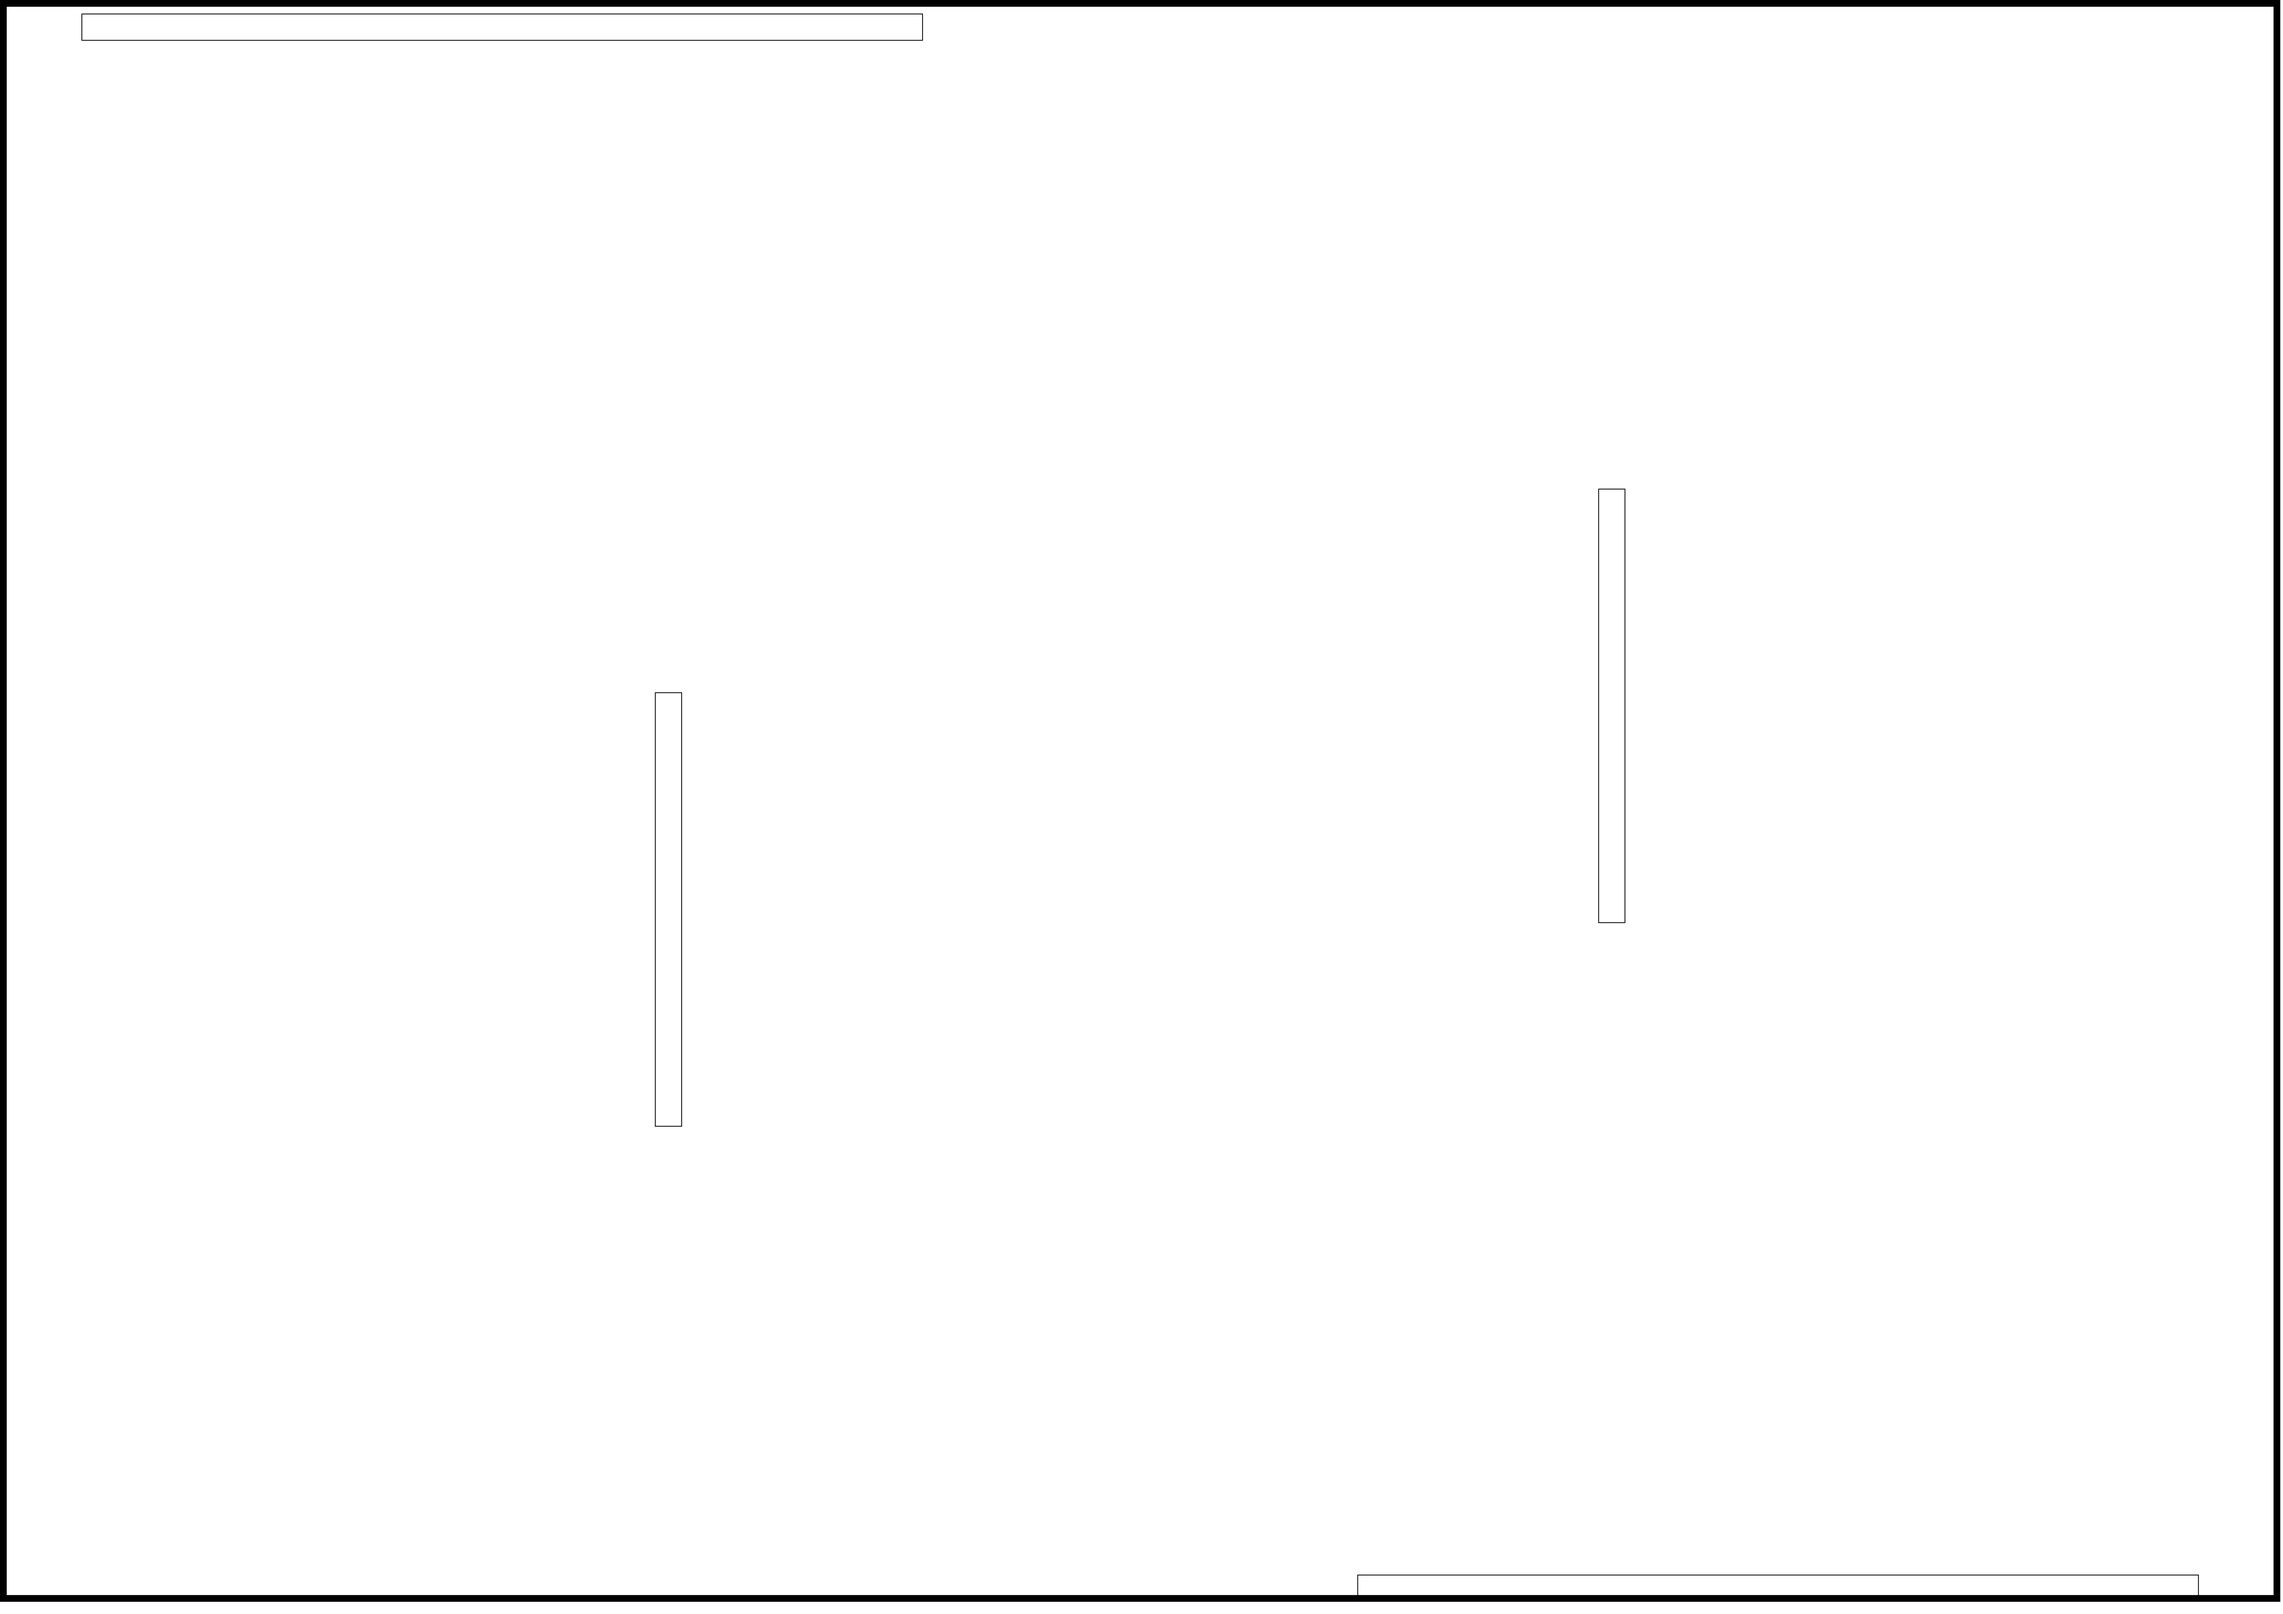
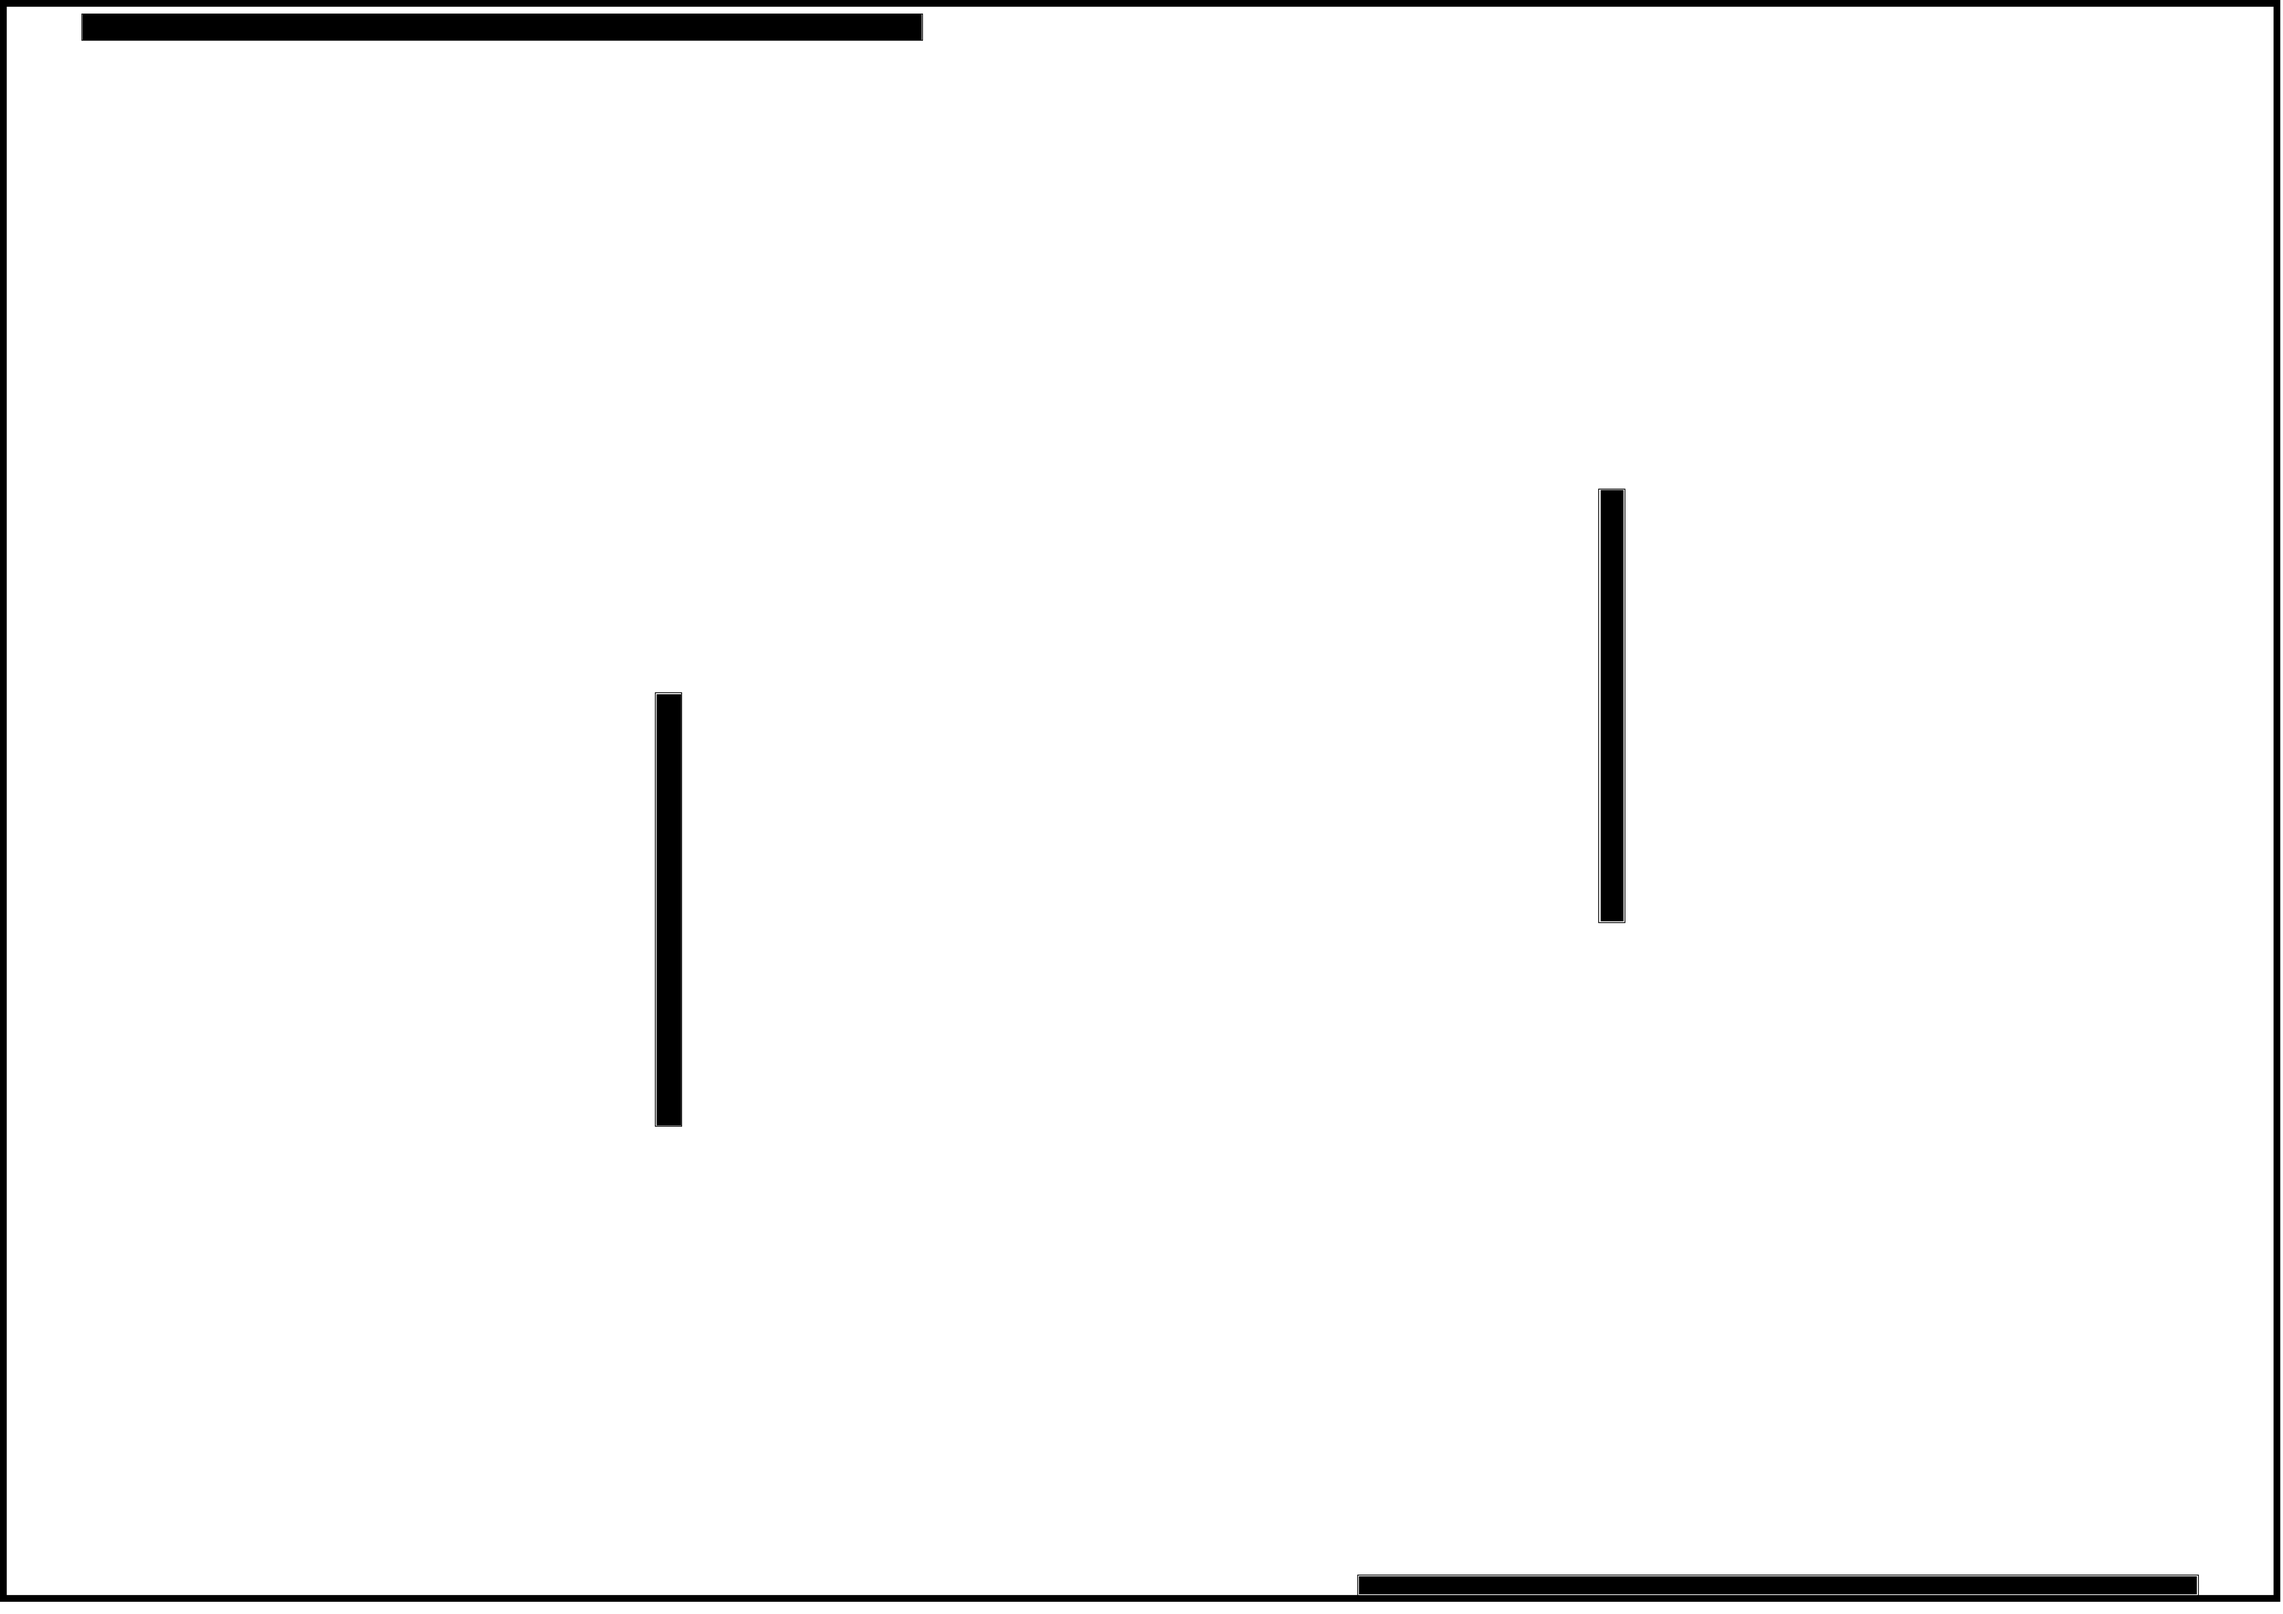
logging done. dist and grad maps not working still

diff --git a/src/Localization/PerfectMatch/Map/Map.cpp b/src/Localization/PerfectMatch/Map/Map.cpp
@@ -12,8 +12,8 @@ Map::Map(Logger &logger, const std::string &filename) : logger(logger) {
 
     // Initialize the distance map and gradient maps
     DistMap = std::vector<std::vector<int>>(ImgHeight, std::vector<int>(ImgWidth, 0));
-    GradXMap = std::vector<std::vector<float>>(ImgHeight, std::vector<float>(ImgWidth, 0));
-    GradYMap = std::vector<std::vector<float>>(ImgHeight, std::vector<float>(ImgWidth, 0));
+    GradXMap = std::vector<std::vector<double>>(ImgHeight, std::vector<double>(ImgWidth, 0));
+    GradYMap = std::vector<std::vector<double>>(ImgHeight, std::vector<double>(ImgWidth, 0));
 
     // Process the image data and populate the distance map
     logger.trace("Processing image data."); // Add log
@@ -27,14 +27,18 @@ Map::Map(Logger &logger, const std::string &filename) : logger(logger) {
     stbi_image_free(img);
 }
 
-
 void Map::saveDistMap(const std::string &filename) const {
     logger.info("Saving distance map to: " + filename);
     std::vector<unsigned char> imgData(ImgWidth * ImgHeight * 3, 0); // 3 for RGB channels
 
+    // find max value in DistMap for normalization
+    int maxDist = 0;
+    for (const auto& row : DistMap)
+        maxDist = std::max(maxDist, *std::max_element(row.begin(), row.end()));
+
     for (int y = 0; y < ImgHeight; ++y) {
         for (int x = 0; x < ImgWidth; ++x) {
-            int pixelValue = std::clamp(DistMap[y][x], 0, 255);
+            int pixelValue = std::round((static_cast<double>(DistMap[y][x]) / maxDist) * 255);
             // Assign to red, green, and blue channels
             imgData[(y * ImgWidth + x) * 3 + 0] = static_cast<unsigned char>(pixelValue); // Red
             imgData[(y * ImgWidth + x) * 3 + 1] = static_cast<unsigned char>(pixelValue); // Green
@@ -49,18 +53,28 @@ void Map::saveDistMap(const std::string &filename) const {
 
 void Map::saveGradMap(const std::string &filename, const double factor) const {
     logger.info("Saving gradient map to: " + filename);
-    std::vector<unsigned char> imgData(ImgWidth * ImgHeight, 0);
+    std::vector<unsigned char> imgData(ImgWidth * ImgHeight * 3, 0); // 3 for RGB channels
+
+    // find max absolute value in GradXMap for normalization
+    double maxGrad = 0;
+    for (const auto &row : GradXMap)
+        maxGrad = std::max(maxGrad, *std::max_element(row.begin(), row.end()));
+
 
     for (int y = 0; y < ImgHeight; ++y) {
         for (int x = 0; x < ImgWidth; ++x) {
-            int pixelValue = 128 + static_cast<int>(GradXMap[y][x] * factor);
-            imgData[y * ImgWidth + x] = static_cast<unsigned char>(std::clamp(pixelValue, 0, 255));
+            int pixelValue = std::round((GradXMap[y][x] / maxGrad) * 128 + 128); // Scale to range from 0 to 255
+            // Assign to red, green, and blue channels
+            imgData[(y * ImgWidth + x) * 3 + 0] = static_cast<unsigned char>(pixelValue); // Red
+            imgData[(y * ImgWidth + x) * 3 + 1] = static_cast<unsigned char>(pixelValue); // Green
+            imgData[(y * ImgWidth + x) * 3 + 2] = static_cast<unsigned char>(pixelValue); // Blue
         }
     }
 
-    stbi_write_png(filename.c_str(), ImgWidth, ImgHeight, 1, imgData.data(), ImgWidth);
+    stbi_write_png(filename.c_str(), ImgWidth, ImgHeight, 3, imgData.data(), ImgWidth * 3);
     logger.debug("Successfully saved gradient map to: " + filename);
 }
+
 
 void Map::logDistMap() const {
     std::stringstream ss;

diff --git a/src/Localization/PerfectMatch/PerfectMatch.cpp b/src/Localization/PerfectMatch/PerfectMatch.cpp
@@ -39,8 +39,7 @@ Pose PerfectMatch::match(std::array<LaserPoint, 720> &data) {
     for (int i = 0; i <= maxIters; i++) {
         IterLaser(data);
     }
-    logger.debug("Finished match function. New pose: (" + std::to_string(RobotPose.getX()) + ", " +
-                 std::to_string(RobotPose.getY()) + ")");
+
     return RobotPose;
 }
 
@@ -66,10 +65,14 @@ void PerfectMatch::CalcDistMap() {
     for (int i = 0; i < 1000; ++i) {
         if (ScanDistMap(i) == 0) {
             ++misses;
-            if (misses > 2) break;
+            if (misses > 2) {
+                logger.debug("misses: " + std::to_string(misses));
+                break;
+            }
         } else {
             misses = 0;
         }
+        logger.debug("iterations: " + std::to_string(i));
     }
     logger.debug("Distance Map calculated.");
 }
@@ -145,8 +148,8 @@ void PerfectMatch::CalcGradMap() {
     int height = map.getHeight();
 
     logger.trace("Calculating Gradient Map...");
-    std::vector<std::vector<float>> GradXMap(height, std::vector<float>(width, 0));
-    std::vector<std::vector<float>> GradYMap(height, std::vector<float>(width, 0));
+    std::vector<std::vector<double>> GradXMap(height, std::vector<double>(width, 0));
+    std::vector<std::vector<double>> GradYMap(height, std::vector<double>(width, 0));
 
     for (int y = 1; y < height - 1; ++y) {
         for (int x = 1; x < width - 1; ++x) {

diff --git a/src/Localization/PerfectMatch/Map/Map.h b/src/Localization/PerfectMatch/Map/Map.h
@@ -9,6 +9,7 @@
 #include "stb/stb_image_write.h"
 #include "Logger/logger.h"
 #include <sstream>
+#include <algorithm>
 
 class Map {
 public:
@@ -20,8 +21,8 @@ public:
     float getGradientX(int x, int y) const { return GradXMap[y][x]; }
     float getGradientY(int x, int y) const { return GradYMap[y][x]; }
     void setDistance(int x, int y, int value) { DistMap[y][x] = value; }
-    void setGradXMap(const std::vector<std::vector<float>>& gradXMap) { GradXMap = gradXMap; }
-    void setGradYMap(const std::vector<std::vector<float>>& gradYMap) { GradYMap = gradYMap; }
+    void setGradXMap(const std::vector<std::vector<double>>& gradXMap) { GradXMap = gradXMap; }
+    void setGradYMap(const std::vector<std::vector<double>>& gradYMap) { GradYMap = gradYMap; }
     void saveDistMap(const std::string& filename) const;
     void saveGradMap(const std::string& filename, const double factor) const;
     void logDistMap() const;
@@ -30,8 +31,8 @@ private:
     int ImgWidth;
     int ImgHeight;
     std::vector<std::vector<int>> DistMap;
-    std::vector<std::vector<float>> GradXMap;
-    std::vector<std::vector<float>> GradYMap;
+    std::vector<std::vector<double>> GradXMap;
+    std::vector<std::vector<double>> GradYMap;
     Logger &logger;
 };
 

diff --git a/src/Logger/logger.cpp b/src/Logger/logger.cpp
@@ -10,13 +10,14 @@ Logger::Logger(spdlog::level::level_enum level) {
         logger = std::make_shared<spdlog::logger>("logger", begin(sinks), end(sinks));
 
         // Initialize file-only logger
-        auto file_sink = std::make_shared<spdlog::sinks::basic_file_sink_mt>("logfile.txt", true);
+        //auto file_sink = std::make_shared<spdlog::sinks::basic_file_sink_mt>("logfile.txt", true);
+        auto file_sink = std::make_shared<spdlog::sinks::stdout_color_sink_mt>();
         fileLogger = std::make_shared<spdlog::logger>("FileLogger", file_sink);
 
         spdlog::register_logger(logger);
         spdlog::register_logger(fileLogger);  // Register file-only logger
         this->set_level(level);
-        fileLogger->set_level(spdlog::level::info);
+        fileLogger->set_level(spdlog::level::debug);
         fileLogger->set_pattern(std::string("%v"));
     } catch (const spdlog::spdlog_ex& ex) {
         std::cout << "Log initialization failed: " << ex.what() << std::endl;

diff --git a/src/Localization/Localization.cpp b/src/Localization/Localization.cpp
@@ -8,6 +8,7 @@ Localization::Localization(Logger &logger, AMRController &controller, const doub
                   controller),
           dt(control_cycle), PM(logger, "C:\\Users\\jabra\\Documents\\GitHub\\PerfectMatch-Simulation\\src\\Localization\\PerfectMatch\\Map\\RAFmap.png") {
     // Initialize the localization system
+    firstIter = true;
     logger.debug("Localization system initialized");
 }
 
@@ -21,9 +22,10 @@ void Localization::processData(const std::array<int, 4> &encoders, const Pose &G
     runtime += dt;
     groundTruth = GT;
 
-    if (firstIter = true) {
+    if (firstIter) {
         PM.setPose(GT);
         firstIter = false;
+        logger.fileLog("first iter");
     }
     Pose matchedPose = PM.match(lidarData); // Note the match result
 

diff --git a/src/Manager/Manager.cpp b/src/Manager/Manager.cpp
@@ -22,8 +22,7 @@ void Manager::run() {
         onDataReceived(data, interface, localization, controller, logger);
     });
 
-    logger.trace("Callback registered.");
-    logger.trace("Program executing...");
+    logger.debug("Waiting for simulator.");
 
     logger.fileLog("[GT.x],[GT.y],[GT.theta],[Match.x],[Match.y],[Match.theta],[runtime]");
     while (run_loop);  // Main run loop

diff --git a/src/Localization/Localization.h b/src/Localization/Localization.h
@@ -24,7 +24,7 @@ public:
 
     void setEncoders(const std::array<int, 4> &encoders);
 
-    bool firstIter = true;
+    bool firstIter;
 
 private:
     Logger &logger;
